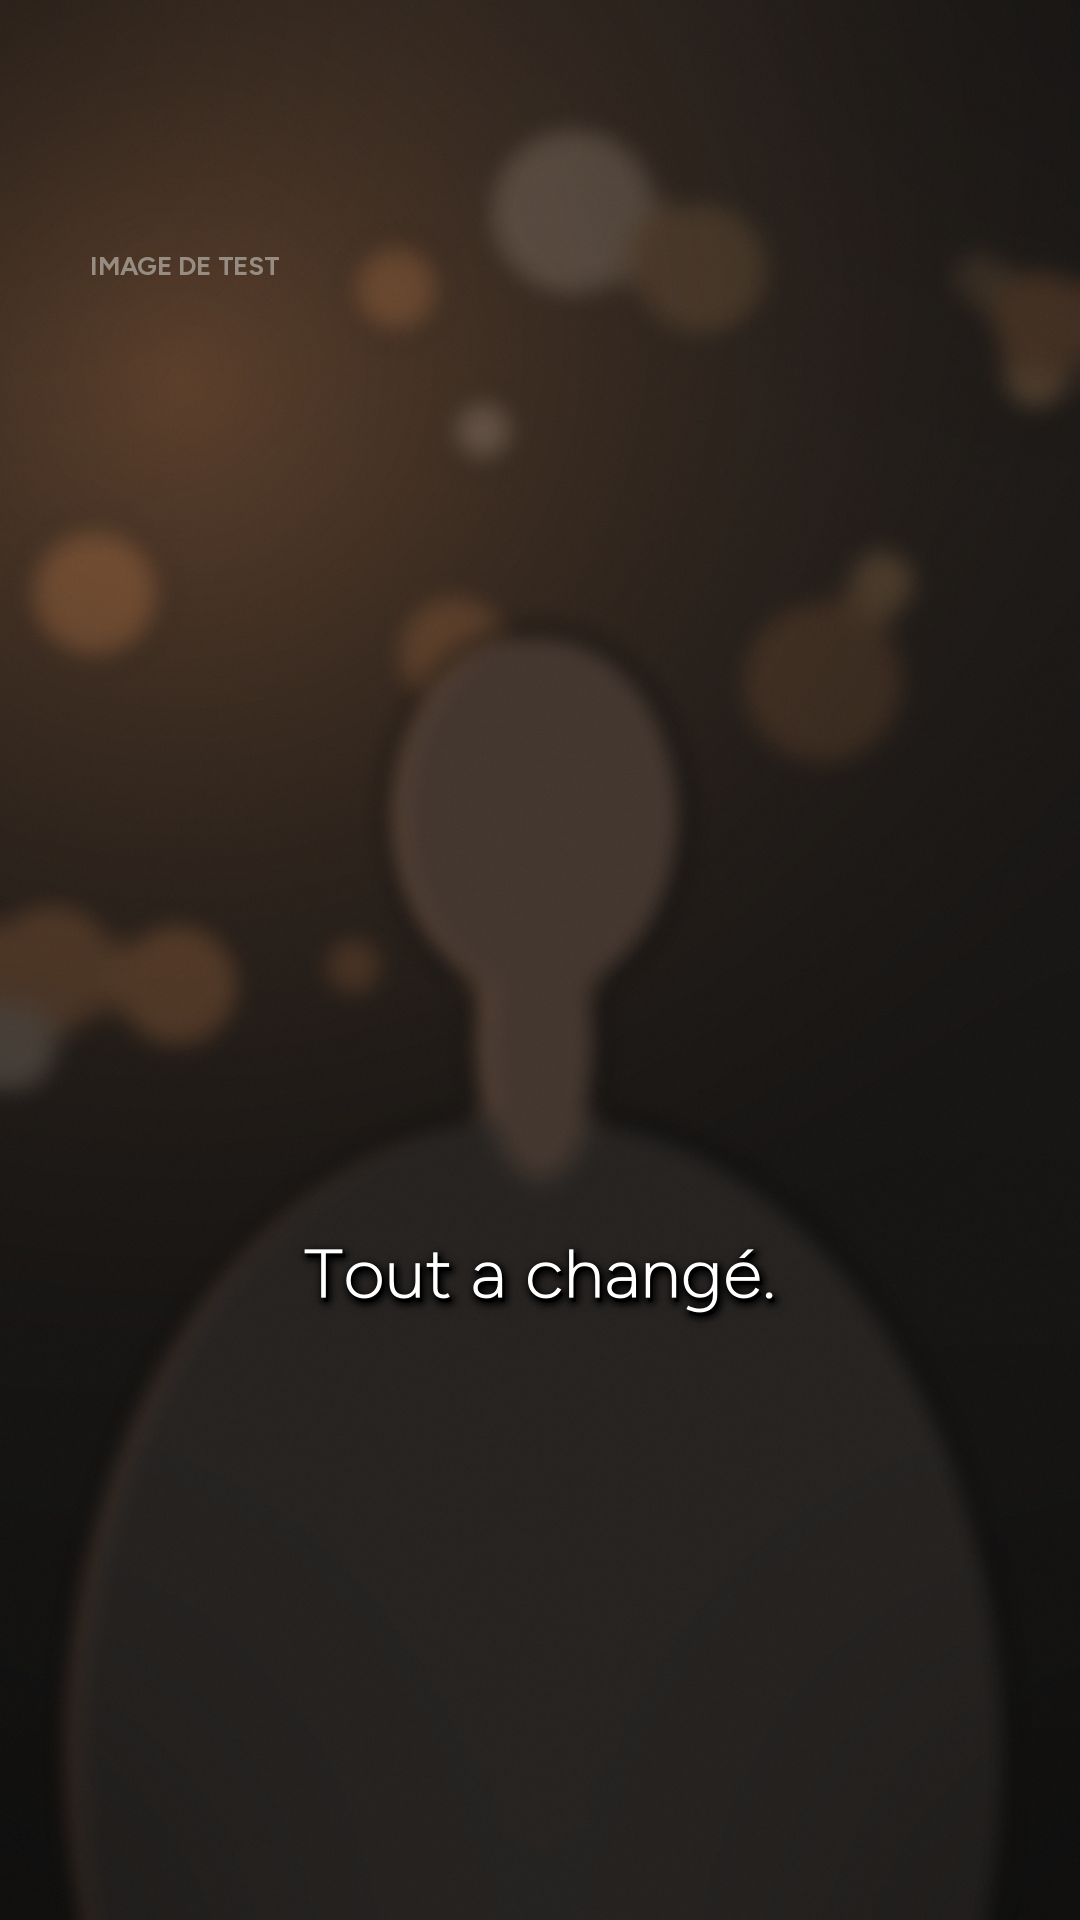
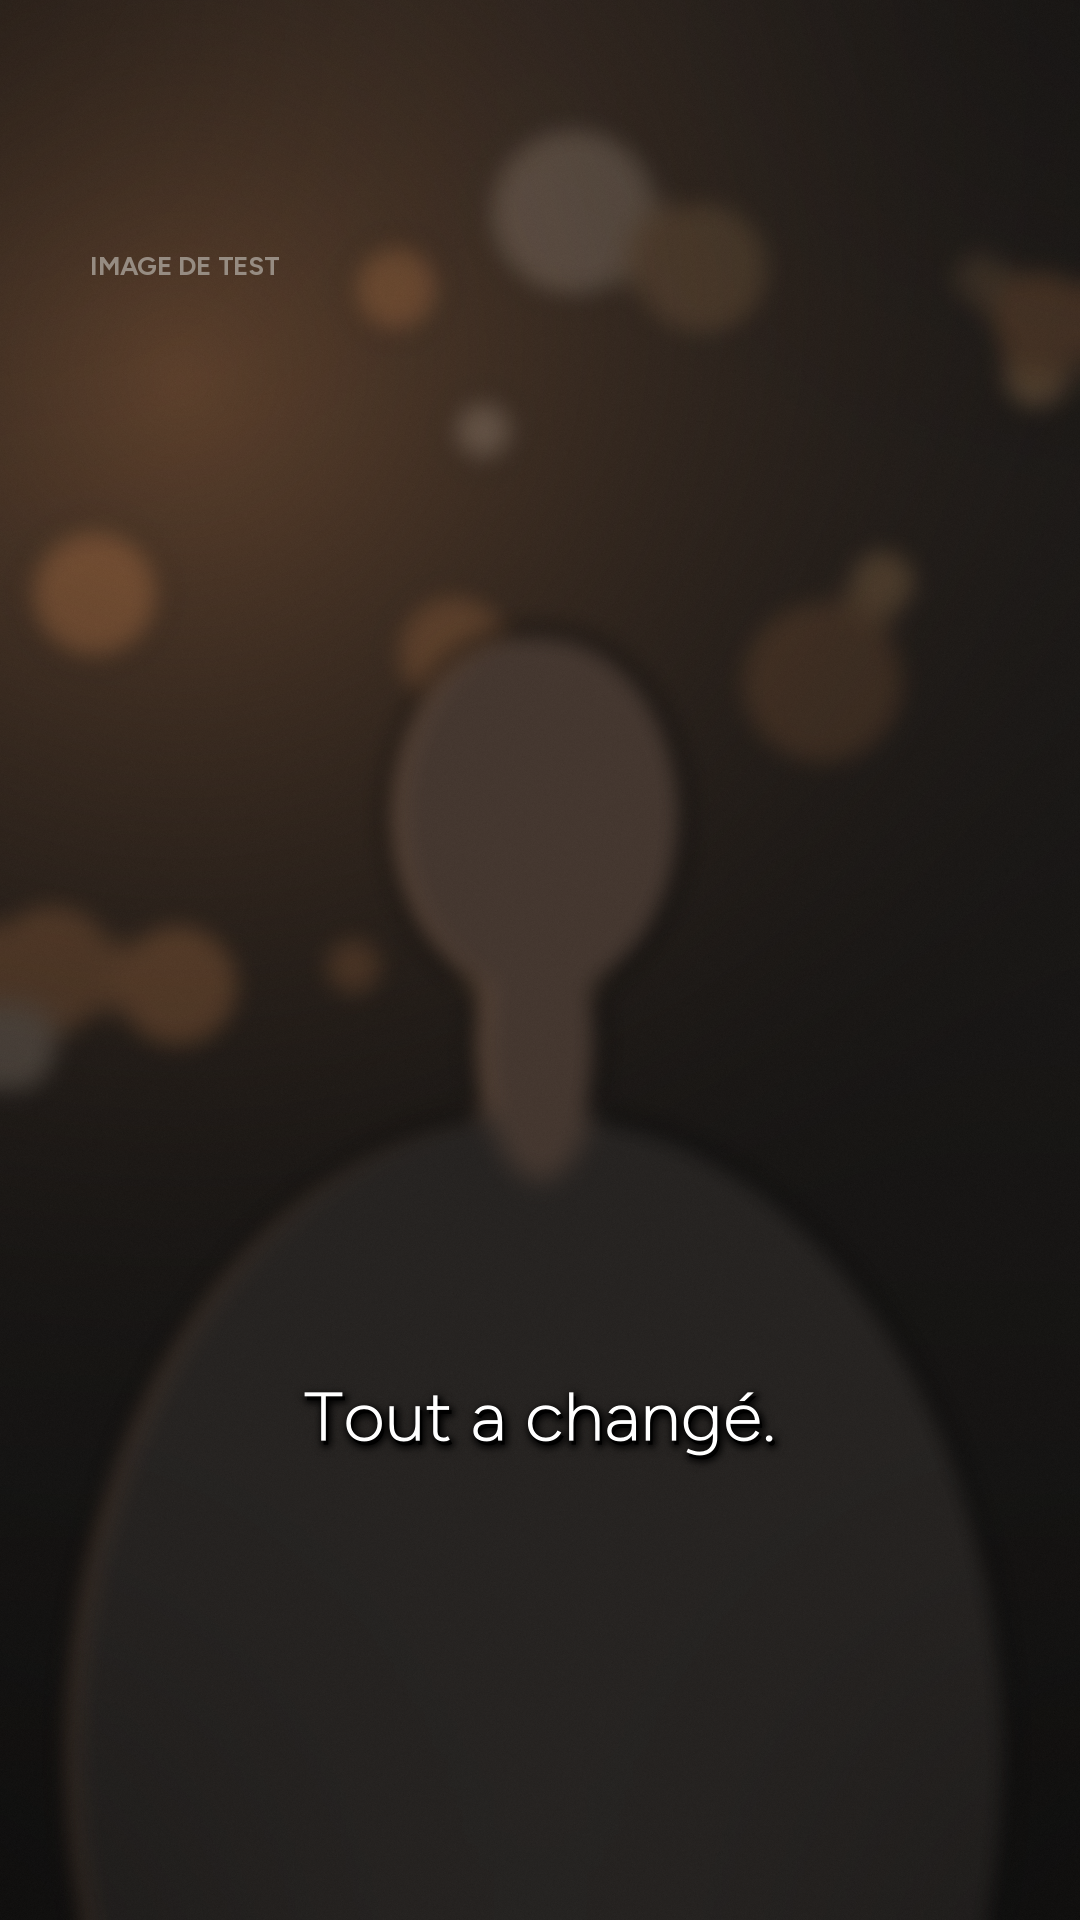
Accroches sous le visage, au-dessus des sous-titres ; l'image ne bouge plus
- sous-titres descendus à 75 % de la hauteur (ligne de base 1440 px), à la demande de l'utilisateur ;
  phrases fortes, chiffres et pastilles descendus d'autant
- titre d'accroche construit de bas en haut à partir des sous-titres, léger voile sombre dessous
- caméra : plus de descente de l'image ni de reflet pendant les accroches (camera.haut_tete retiré)
- images de contrôle : pastilles et plans de coupe ajoutés
- témoignage Hock : logo de fin au-dessus des sous-titres, après les pastilles

Claude-Session: https://claude.ai/code/session_01VNkxyZ78PRMin1GHmDhwvf

Changed region(s): [[0.275, 0.7188, 0.7028, 0.7812], [0.275, 0.625, 0.7028, 0.6875]]

diff --git a/moteur/src/couches/Camera.tsx b/moteur/src/couches/Camera.tsx
@@ -1,6 +1,5 @@
 import React from 'react';
 import {AbsoluteFill, OffthreadVideo, staticFile, useCurrentFrame, useVideoConfig} from 'remotion';
-import {miseEnPageAccroche} from '../miseEnPage';
 import {clamp, easeIn, easeInOut, easeOut, fondu, lerp, prog} from '../temps';
 
 type Zoom = {debut: number; fin?: number; a: number; duree: number};
@@ -65,27 +64,6 @@ export const Camera: React.FC<{projet: any; charte: any}> = ({projet, charte}) =
   const echelle = cadrage * avancee * z * (1 + 0.07 * g + 0.03 * v);
   const origine = `${cam.visage[0] * W}px ${cam.visage[1] * H}px`;
 
-  // Pendant une accroche, l'image descend juste assez pour que le haut de la tête passe sous le titre.
-  // Entre deux accroches rapprochées, le changement se fait sur la coupe (invisible), sinon en douceur.
-  const yeux = cam.visage[1] * H;
-  const hautTete = yeux - echelle * (yeux - cam.haut_tete * H);
-  const accroches = projet.effets.filter((e: any) => e.type === 'accroche').sort((a: any, b: any) => a.debut - b.debut);
-  const frontiere = (a: any, b: any) => (b.debut - a.fin < 0.6 ? coupes.find((c) => c >= a.fin - 0.15 && c <= b.debut + 0.15) : undefined);
-  let decalY = 0;
-  accroches.forEach((e: any, i: number) => {
-    const fAvant = i > 0 ? frontiere(accroches[i - 1], e) : undefined;
-    const fApres = i < accroches.length - 1 ? frontiere(e, accroches[i + 1]) : undefined;
-    const debut = fAvant ?? e.debut;
-    const fin = fApres ?? e.fin;
-    let w = 0;
-    if (t >= debut && t < fin) w = 1;
-    else if (fAvant === undefined && e.debut > 0.05 && t >= e.debut - 0.35 && t < e.debut) w = easeInOut(prog(t, e.debut - 0.35, e.debut));
-    else if (fApres === undefined && t >= fin && t < fin + 0.35) w = easeInOut(1 - prog(t, fin, fin + 0.35));
-    if (w > 0) {
-      const besoin = Math.max(0, miseEnPageAccroche(e, charte).bas + M.accroche.marge_tete_px - hautTete);
-      decalY = Math.max(decalY, besoin * w);
-    }
-  });
   const filtres = [
     pano.flou > 0.5 ? 'url(#flou-panoramique)' : '',
     projet.ambiance.etalonnage ? M.ambiance.etalonnage_css : '',
@@ -94,26 +72,12 @@ export const Camera: React.FC<{projet: any; charte: any}> = ({projet, charte}) =
   ].join(' ');
 
   const video = (cle: string, decalX: number, s: number, opacite: number, muet: boolean) => (
-    <div key={cle} style={{position: 'absolute', inset: 0, transform: `translateX(${decalage + decalX}px) translateY(${decalY.toFixed(1)}px) scale(${s})`, transformOrigin: origine, opacity: opacite}}>
+    <div key={cle} style={{position: 'absolute', inset: 0, transform: `translateX(${decalage + decalX}px) scale(${s})`, transformOrigin: origine, opacity: opacite}}>
       <OffthreadVideo src={staticFile(projet.rush.video)} muted={muet} style={{width: W, height: H, objectFit: 'cover'}} />
     </div>
   );
 
   const couches: React.ReactNode[] = [];
-  // haut libéré par la descente : rempli par le reflet de l'image (miroir au bord supérieur),
-  // pour que les couleurs se raccordent sans marche visible. Pas de flou : au bord, il mélangerait
-  // l'image avec du noir et ferait un trait sombre. L'axe du miroir est 3 px plus bas que le bord,
-  // pour que le reflet passe sous l'image principale et qu'aucun pixel noir ne reste à la jonction.
-  const bordHaut = decalY + cam.visage[1] * H * (1 - echelle);
-  if (decalY > 0.5 && bordHaut > 0) {
-    couches.push(
-      <div key="reflet" style={{position: 'absolute', inset: 0, transform: `translateY(${(2 * (bordHaut + 3)).toFixed(1)}px) scaleY(-1)`, transformOrigin: '0 0'}}>
-        <div style={{position: 'absolute', inset: 0, transform: `translateX(${decalage}px) translateY(${decalY.toFixed(1)}px) scale(${echelle})`, transformOrigin: origine}}>
-          <OffthreadVideo src={staticFile(projet.rush.video)} muted style={{width: W, height: H, objectFit: 'cover'}} />
-        </div>
-      </div>,
-    );
-  }
   couches.push(video('principale', pano.x, echelle, 1, Boolean(projet.rush.voix)));
   if (pano.flou > 0.5) couches.push(video('panoramique', pano.x + (pano.x < 0 ? W : -W), echelle, 1, true));
   // flou de mouvement du zoom : copies légèrement décalées en taille, semi-transparentes

diff --git a/moteur/src/couches/Accroche.tsx b/moteur/src/couches/Accroche.tsx
@@ -6,14 +6,16 @@ import {easeOut, fondu, prog, sansPonctuation} from '../temps';
 // Accroche d'ouverture : un sur-titre qui glisse, puis un titre qui s'écrit lettre par lettre.
 export const Accroche: React.FC<{e: any; charte: any; projet: any}> = ({e, charte, projet}) => {
   const frame = useCurrentFrame();
-  const {fps, width: W} = useVideoConfig();
+  const {fps, width: W, height: H} = useVideoConfig();
   const t = frame / fps;
   if (t < e.debut || t > e.fin) return null;
   const A = charte.moteur.accroche;
   const ti = charte.titres;
   const accent = charte.couleurs.orange;
-  // Tout en haut de l'image ; la caméra descend l'image pour que le visage reste dessous (miseEnPage.ts).
-  const {presentation, avecSurtitre, surtitreTaille, surtitreY, em, ecart, premiere} = miseEnPageAccroche(e, charte);
+  // Sous le visage, juste au-dessus des sous-titres ; l'image ne bouge pas (miseEnPage.ts).
+  const {presentation, avecSurtitre, surtitreTaille, surtitreY, em, ecart, premiere, haut} = miseEnPageAccroche(e, charte);
+  // léger voile sombre derrière le titre et les sous-titres ; il commence sous le menton
+  const voileHaut = haut - 120;
   const visible = fondu(t, e.debut, e.fin, 0.25);
   const sortie = prog(t, e.fin - 0.3, e.fin);
   const s = easeOut(prog(t, e.debut, e.debut + 0.35));
@@ -31,7 +33,7 @@ export const Accroche: React.FC<{e: any; charte: any; projet: any}> = ({e, chart
 
   return (
     <div style={{position: 'absolute', inset: 0, opacity: visible * (1 - sortie), transform: `translateY(${(-24 * sortie).toFixed(1)}px)`}}>
-      <div style={{position: 'absolute', left: 0, top: 0, width: W, height: 900, background: presentation ? 'linear-gradient(to bottom, rgba(0,0,0,0.42) 0%, rgba(0,0,0,0.2) 40%, rgba(0,0,0,0) 62%)' : 'linear-gradient(to bottom, rgba(0,0,0,0.66) 0%, rgba(0,0,0,0.38) 45%, rgba(0,0,0,0) 72%)'}} />
+      <div style={{position: 'absolute', left: 0, top: voileHaut, width: W, height: H - voileHaut, background: `linear-gradient(to bottom, rgba(0,0,0,0) 0%, rgba(0,0,0,${presentation ? 0.22 : 0.32}) 30%, rgba(0,0,0,${presentation ? 0.18 : 0.26}) 100%)`}} />
       {avecSurtitre && <div
         style={{
           position: 'absolute', top: surtitreY - surtitreTaille / 2, left: 0, width: W, display: 'flex', justifyContent: 'center', alignItems: 'center',

diff --git a/moteur/src/miseEnPage.ts b/moteur/src/miseEnPage.ts
@@ -1,19 +1,24 @@
 import {emDepuisAss} from './temps';
 
-// Mise en page d'une accroche, partagée par l'accroche (dessin) et la caméra (qui descend
-// l'image juste assez pour que le haut de la tête passe sous le titre : il ne cache jamais le visage).
+// Mise en page d'une accroche : sous le visage, juste au-dessus des sous-titres.
+// Le titre se construit de bas en haut à partir des sous-titres, l'image ne bouge pas.
+// Rien ne doit cacher le visage : sur un cadrage très serré (menton bas), vérifier les images fixes.
 export const miseEnPageAccroche = (e: any, charte: any) => {
   const A = charte.moteur.accroche;
+  const st = charte.sous_titres.normal;
   const presentation = e.variante === 'presentation';
   const avecSurtitre = Boolean(e.surtitre);
   const surtitreTaille = presentation ? 28 : A.surtitre_taille_px;
-  const surtitreY = A.titre_haut_px + surtitreTaille / 2; // centre du sur-titre
   const em0 = emDepuisAss(132);
   const em = em0 * (presentation ? 0.68 : 1);
   const ecart = (A.ecart_lignes_px / em0) * em;
-  const haut = avecSurtitre ? surtitreY + surtitreTaille / 2 + (presentation ? 22 : 30) : A.titre_haut_px;
-  const premiere = haut + 0.37 * em; // centre des majuscules de la première ligne
   const n = e._t?.lignes?.length ?? 1;
-  const bas = premiere + (n - 1) * ecart + 0.42 * em; // bas des lettres de la dernière ligne
-  return {presentation, avecSurtitre, surtitreTaille, surtitreY, em, ecart, premiere, bas};
+  // haut des majuscules des sous-titres (capitales de Figtree ≈ 0,72 em)
+  const hautSousTitres = st.position.ligne_de_base_y - 0.72 * emDepuisAss(st.taille_ass);
+  const bas = hautSousTitres - A.marge_sous_titres_px; // bas des lettres de la dernière ligne
+  const premiere = bas - (n - 1) * ecart - 0.42 * em; // centre des majuscules de la première ligne
+  const hautTitre = premiere - 0.37 * em;
+  const surtitreY = hautTitre - (presentation ? 22 : 30) - surtitreTaille / 2; // centre du sur-titre
+  const haut = avecSurtitre ? surtitreY - surtitreTaille / 2 : hautTitre; // haut de tout le bloc
+  return {presentation, avecSurtitre, surtitreTaille, surtitreY, em, ecart, premiere, haut, bas};
 };

diff --git a/moteur/LISEZMOI.md b/moteur/LISEZMOI.md
@@ -45,7 +45,6 @@ Les chemins sont relatifs au fichier. Exemple complet : `essai/effets.json`.
 - `rush.mots` : temps de chaque mot, au format `[{"mot", "debut", "fin"}]` ou au format brut d'ElevenLabs Scribe (`words`). `rush.voix` est facultatif (sinon on garde le son du rush).
 - `sous_titres.mode` : `mot_a_mot` (par défaut), `premiere_video` (rendu exact de la première vidéo, incrusté après coup par `outils/sous_titres.py`, avec ses `phrases_fortes`) ou `aucun`.
 - `camera.visage` : position des yeux dans l'image (0 à 1). Les zooms sont centrés là.
-- `camera.haut_tete` : hauteur du haut de la tête (0 à 1, environ 0,19 pour un cadrage poitrine). Sert à descendre l'image sous les titres d'accroche.
 - `camera.coupes` : instants des coupes. Le cadrage change à chaque coupe, et l'image avance lentement pendant chaque plan.
 - `musique` : facultative. Elle est jouée 20 dB sous la voix et baisse encore de 6 dB quand on parle (réglages dans `moteur.musique`).
 
@@ -53,7 +52,7 @@ Les chemins sont relatifs au fichier. Exemple complet : `essai/effets.json`.
 
 | type | champs | rôle |
 |---|---|---|
-| `accroche` | `debut`, `fin`, `titre`, `surtitre` (facultatif), `mot_accent` (facultatif), `style` (facultatif) | Titre écrit lettre par lettre, tout en haut ; l'image descend pendant l'accroche pour que la tête passe sous le titre (`camera.haut_tete`). La 1re accroche ouvre la vidéo ; les suivantes (ex. le nom) prennent le style `presentation`, plus discret. |
+| `accroche` | `debut`, `fin`, `titre`, `surtitre` (facultatif), `mot_accent` (facultatif), `style` (facultatif) | Titre écrit lettre par lettre, sous le visage, juste au-dessus des sous-titres ; l'image ne bouge pas. Sur un cadrage très serré (menton bas), vérifier sur les images fixes que le titre ne touche pas le menton. La 1re accroche ouvre la vidéo ; les suivantes (ex. le nom) prennent le style `presentation`, plus discret. |
 | `grand_titre` | `debut`, `fin`, `lignes`, `mot_accent` | Phrase choc en 3D, visage flouté derrière. |
 | `icone` | `debut`, `fin`, `icone`, `mot` (conseillé), ou `x`, `y`, `taille` | `courbe`, `etoile`, `epingle`, `panier`, `coeur`, `bulle`, `cible`, `etincelle`, `ia` (puce « IA »). Rebond + particules. Avec `mot`, l'icône se pose juste au-dessus de ce mot dans les sous-titres et y reste jusqu'à `fin`, même si la ligne change (jamais sur le visage). |
 | `chiffre` | `debut`, `fin`, `valeur`, `de`, `prefixe`, `suffixe`, `decimales`, `legende` | Le chiffre défile jusqu'à sa valeur. |
